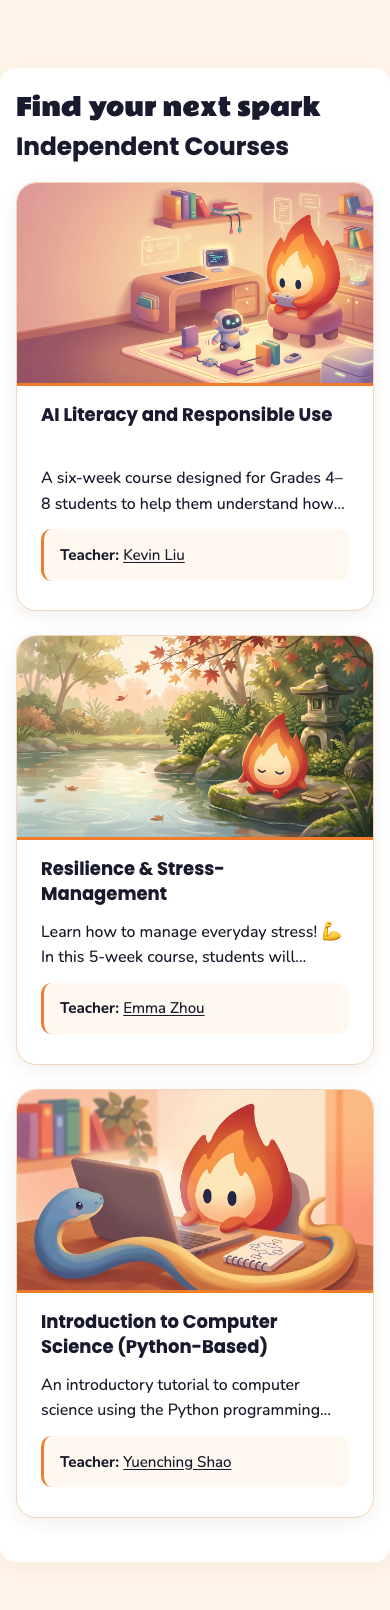
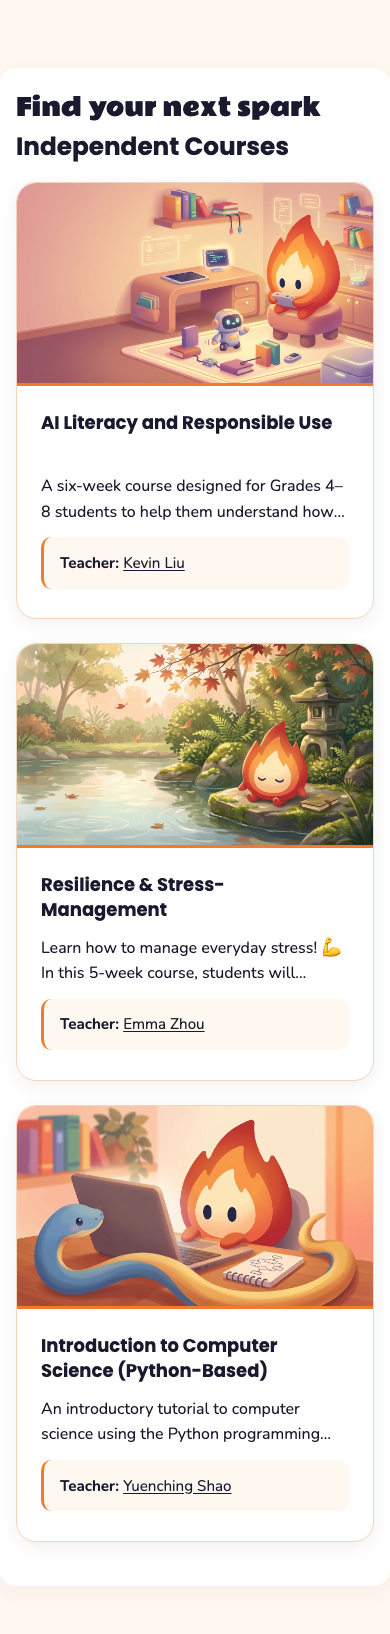
waefawefawe

diff --git a/server/sol/site-content.ts b/server/sol/site-content.ts
@@ -18,12 +18,12 @@ export const siteContent: { path: string; source: string; text: string }[] = [
   {
     "path": "/program",
     "source": "src/pages/Program.tsx",
-    "text": "The Program\nPractical life skills. Two ways to learn.\nLive and independent courses are being developed. Explore what’s planned below.\nTwo Planned Formats\nPractical skills for everyday life: managing your time, communicating clearly, staying safe online, understanding money, and turning ideas into projects.\nPlanned · Synchronous\nLive · One week\nFive 60-minute sessions, Monday through Friday, plus course-specific work outside class.\nLearn together through live lessons, guided practice, discussion, and applied tasks that build toward a final project.\nPlanned · Asynchronous\nIndependent · Six weeks\nThe draft framework estimates roughly 4–5 hours per week. Actual time will vary by course.\nWork through weekly lessons, practice, quizzes, and applied work. Use feedback to revise your work and build toward a final project.\nThese courses are in development. Launch dates, class schedules, and student enrollment details have not been confirmed.\nLearn by Doing\nLearn & Practice\nThe independent plans pair weekly lessons with practice and quizzes. Live plans include guided activities and discussion.\nFeedback & Revision\nThe draft formats include feedback so students can improve their applied work. Support details will vary by course.\nA Final Project\nBoth planned formats build toward a final project that shows how students can use what they learn.\nCourses in Development\n20 course plans: 3 live and 17 independent. Every course below is in development.\nAll courses (20) Live (3) Independent (17)\nShowing 20 courses in development.\nLive In development\nContent Creation & Digital Storytelling\nPlanned format: one week\nLive In development\nProfessional Communication & Public Speaking\nPlanned format: one week\nLive In development\nGame Development (Scratch)\nPlanned format: one week\nIndependent In development\nProductivity, Time Management & Organization\nPlanned format: six weeks\nIndependent In development\nMarketing, Branding & Digital Design\nPlanned format: six weeks\nIndependent In development\nScientific Research & Data Analysis\nPlanned format: six weeks\nIndependent In development\nSocial Impact & Project Development\nPlanned format: six weeks\nIndependent In development\nResilience & Stress Management\nPlanned format: six weeks\nIndependent In development\nAI Literacy and Responsible Use\nPlanned format: six weeks\nIndependent In development\n3D Design & CAD Fundamentals\nPlanned format: six weeks\nIndependent In development\nCybersecurity, Online Safety & Media Literacy\nPlanned format: six weeks\nIndependent In development\nCareer Exploration & Pathway Planning\nPlanned format: six weeks\nIndependent In development\nFinancial Literacy & Economics\nPlanned format: six weeks\nIndependent In development\nEntrepreneurship & Business Building\nPlanned format: six weeks\nIndependent In development\nLeadership, Teamwork & Conflict Resolution\nPlanned format: six weeks\nIndependent In development\nCivic Literacy & Community Action\nPlanned format: six weeks\nIndependent In development\nRelationships, Boundaries & Social Skills\nPlanned format: six weeks\nIndependent In development\nEmergency Preparedness & Safety\nPlanned format: six weeks\nIndependent In development\nIntroductory Physics and Astronomy\nPlanned format: six weeks\nIndependent In development\nIntro to Computer Science (Python)\nPlanned format: six weeks\nEligibility: To Be Confirmed\nExisting Ignite materials describe grades 4–8. Eligibility and any prior knowledge needed for each developing course still need confirmation; the same ages may not apply to every course.\nOur Summer 2026 Foundation\nSummer 2026 brought six subjects and ten live cohorts together over three weeks. Those past results are helping shape the next chapter.\nSee Summer 2026 Results\nGrowing With You\nAfter Summer 2026, Ignite is working toward free online learning that combines live classes with independent courses. The goal is to help more students build useful skills, wherever they learn.\n20 courses in development: 3 live and 17 independent.\nAI learning support, professional curriculum review, new partnerships, and broader reach are proposals. Their launch, approval, and growth targets have not been confirmed.\nExplore the Course Plans\nWhat’s Next?\nThese courses are in development. Launch dates, class schedules, and student enrollment details have not been confirmed.\nA current student application link has not been confirmed. The learning hub opens a Moodle sign-in page.\nLearning Hub (Moodle Sign-in) Program FAQ"
+    "text": "The Program\nPractical life skills. Two ways to learn.\nLive and independent courses are being developed. Explore what’s planned below.\nTwo Planned Formats\nPractical skills for everyday life: managing your time, communicating clearly, staying safe online, understanding money, and turning ideas into projects.\nPlanned · Synchronous\nLive · Two weeks\nFive 60-minute sessions per week, Monday through Friday, plus course-specific work outside class.\nLearn together through live lessons, guided practice, discussion, and applied tasks that build toward a final project.\nPlanned · Asynchronous\nIndependent · Six weeks\nThe draft framework estimates roughly 4–5 hours per week. Actual time will vary by course.\nWork through weekly lessons, practice, quizzes, and applied work. Use feedback to revise your work and build toward a final project.\nThese courses are in development. Launch dates, class schedules, and student enrollment details have not been confirmed.\nLearn by Doing\nLearn & Practice\nThe independent plans pair weekly lessons with practice and quizzes. Live plans include guided activities and discussion.\nFeedback & Revision\nThe draft formats include feedback so students can improve their applied work. Support details will vary by course.\nA Final Project\nBoth planned formats build toward a final project that shows how students can use what they learn.\nCourses in Development\n20 course plans: 3 live and 17 independent. Every course below is in development.\nAll courses (20) Live (3) Independent (17)\nShowing 20 courses in development.\nLive In development\nContent Creation & Digital Storytelling\nPlanned format: two weeks\nLive In development\nProfessional Communication & Public Speaking\nPlanned format: two weeks\nLive In development\nGame Development (Scratch)\nPlanned format: two weeks\nIndependent In development\nProductivity, Time Management & Organization\nPlanned format: six weeks\nIndependent In development\nMarketing, Branding & Digital Design\nPlanned format: six weeks\nIndependent In development\nScientific Research & Data Analysis\nPlanned format: six weeks\nIndependent In development\nSocial Impact & Project Development\nPlanned format: six weeks\nIndependent In development\nResilience & Stress Management\nPlanned format: six weeks\nIndependent In development\nAI Literacy and Responsible Use\nPlanned format: six weeks\nIndependent In development\n3D Design & CAD Fundamentals\nPlanned format: six weeks\nIndependent In development\nCybersecurity, Online Safety & Media Literacy\nPlanned format: six weeks\nIndependent In development\nCareer Exploration & Pathway Planning\nPlanned format: six weeks\nIndependent In development\nFinancial Literacy & Economics\nPlanned format: six weeks\nIndependent In development\nEntrepreneurship & Business Building\nPlanned format: six weeks\nIndependent In development\nLeadership, Teamwork & Conflict Resolution\nPlanned format: six weeks\nIndependent In development\nCivic Literacy & Community Action\nPlanned format: six weeks\nIndependent In development\nRelationships, Boundaries & Social Skills\nPlanned format: six weeks\nIndependent In development\nEmergency Preparedness & Safety\nPlanned format: six weeks\nIndependent In development\nIntroductory Physics and Astronomy\nPlanned format: six weeks\nIndependent In development\nIntro to Computer Science (Python)\nPlanned format: six weeks\nEligibility: To Be Confirmed\nExisting Ignite materials describe grades 4–8. Eligibility and any prior knowledge needed for each developing course still need confirmation; the same ages may not apply to every course.\nOur Summer 2026 Foundation\nSummer 2026 brought six subjects and ten live cohorts together over three weeks. Those past results are helping shape the next chapter.\nSee Summer 2026 Results\nGrowing With You\nAfter Summer 2026, Ignite is working toward free online learning that combines live classes with independent courses. The goal is to help more students build useful skills, wherever they learn.\n20 courses in development: 3 live and 17 independent.\nAI learning support, professional curriculum review, new partnerships, and broader reach are proposals. Their launch, approval, and growth targets have not been confirmed.\nExplore the Course Plans\nWhat’s Next?\nThese courses are in development. Launch dates, class schedules, and student enrollment details have not been confirmed.\nA current student application link has not been confirmed. The learning hub opens a Moodle sign-in page.\nLearning Hub (Moodle Sign-in) Program FAQ"
   },
   {
     "path": "/faq",
     "source": "src/pages/FAQ.tsx",
-    "text": "FAQ\nGot questions? We've got answers.\nIs it free?\nIgnite’s mission is to keep practical life skills learning free. The Summer 2026 program was free, and the developing courses are planned as free learning opportunities.\nHow long is the program?\nThe planned live (synchronous) format is one week; the independent (asynchronous) format is six weeks. These are course plans, not an announced schedule. The three-week Summer 2026 cycle is a past program.\nWhat’s the time commitment?\nLive: Five 60-minute sessions, Monday through Friday, plus course-specific work outside class. Independent: The draft framework estimates roughly 4–5 hours per week. Actual time will vary by course.\nWhich courses are available?\nThe catalog contains 20 courses in development: 3 live and 17 independent. These courses are in development. Launch dates, class schedules, and student enrollment details have not been confirmed.\nWho are the courses for?\nExisting Ignite materials describe grades 4–8. Eligibility and any prior knowledge needed for each developing course still need confirmation; the same ages may not apply to every course.\nIs experience required?\nIgnite welcomes curiosity and a willingness to learn. Any course-specific prerequisites will need to be confirmed before enrollment details are shared.\nWho are the mentors?\nIgnite is student-led. High school mentors helped students practice skills during Summer 2026. Teaching and feedback arrangements for developing courses are still being planned.\nWhere will learning happen?\nBoth formats are planned for online learning. Independent course plans include weekly lessons, practice, quizzes, applied work, feedback, revision, and a final project. The learning hub currently opens a Moodle sign-in page.\nCan I apply now?\nA current student application link and enrollment availability have not been confirmed. The learning hub is a Moodle sign-in page. Intern applications are separate and linked on the Hiring page.\nWhat will I work toward?\nBoth draft formats build toward a final project. Course-specific completion requirements and any certificates will need to be confirmed before launch.\nHow is Ignite expanding?\nAfter Summer 2026, Ignite is working toward free online learning that combines live classes with independent courses. The goal is to help more students build useful skills, wherever they learn. AI learning support, professional curriculum review, new partnerships, and broader reach are proposals. Their launch, approval, and growth targets have not been confirmed.\nHow do I contact you?\nEmail ignitefindyourfire@gmail.com with questions about the program or eligibility.\nStill Have Questions?\nSend us an email and we will get back to you as soon as we can.\nEmail Us"
+    "text": "FAQ\nGot questions? We've got answers.\nIs it free?\nIgnite’s mission is to keep practical life skills learning free. The Summer 2026 program was free, and the developing courses are planned as free learning opportunities.\nHow long is the program?\nThe planned live (synchronous) format is two weeks; the independent (asynchronous) format is six weeks. These are course plans, not an announced schedule. The three-week Summer 2026 cycle is a past program.\nWhat’s the time commitment?\nLive: Five 60-minute sessions per week, Monday through Friday, plus course-specific work outside class. Independent: The draft framework estimates roughly 4–5 hours per week. Actual time will vary by course.\nWhich courses are available?\nThe catalog contains 20 courses in development: 3 live and 17 independent. These courses are in development. Launch dates, class schedules, and student enrollment details have not been confirmed.\nWho are the courses for?\nExisting Ignite materials describe grades 4–8. Eligibility and any prior knowledge needed for each developing course still need confirmation; the same ages may not apply to every course.\nIs experience required?\nIgnite welcomes curiosity and a willingness to learn. Any course-specific prerequisites will need to be confirmed before enrollment details are shared.\nWho are the mentors?\nIgnite is student-led. High school mentors helped students practice skills during Summer 2026. Teaching and feedback arrangements for developing courses are still being planned.\nWhere will learning happen?\nBoth formats are planned for online learning. Independent course plans include weekly lessons, practice, quizzes, applied work, feedback, revision, and a final project. The learning hub currently opens a Moodle sign-in page.\nCan I apply now?\nA current student application link and enrollment availability have not been confirmed. The learning hub is a Moodle sign-in page. Intern applications are separate and linked on the Hiring page.\nWhat will I work toward?\nBoth draft formats build toward a final project. Course-specific completion requirements and any certificates will need to be confirmed before launch.\nHow is Ignite expanding?\nAfter Summer 2026, Ignite is working toward free online learning that combines live classes with independent courses. The goal is to help more students build useful skills, wherever they learn. AI learning support, professional curriculum review, new partnerships, and broader reach are proposals. Their launch, approval, and growth targets have not been confirmed.\nHow do I contact you?\nEmail ignitefindyourfire@gmail.com with questions about the program or eligibility.\nStill Have Questions?\nSend us an email and we will get back to you as soon as we can.\nEmail Us"
   },
   {
     "path": "/hiring",

diff --git a/moodle/raw.scss b/moodle/raw.scss
@@ -36,7 +36,8 @@ $ignite-catalog-link: #A63B00; // Existing preset's accessible orange link shade
 $ignite-catalog-border: #F2D5BB;
 $ignite-catalog-body: "Nunito", -apple-system, BlinkMacSystemFont, "Segoe UI", Arial, sans-serif;
 $ignite-catalog-heading: "Poppins", "Segoe UI", Arial, sans-serif;
-$ignite-catalog-title-height: 4.75rem;
+$ignite-catalog-image-title-gap: 1.5rem; // 24px at the default root font size.
+$ignite-catalog-title-height: 3.75rem + $ignite-catalog-image-title-gap;
 $ignite-catalog-details-height: 9.25rem;
 $ignite-catalog-extra-details-height: 11.5rem;
 $ignite-catalog-description-lines: 2;
@@ -45,10 +46,10 @@ $ignite-catalog-description-lines: 2;
 #page-course-index,
 #page-course-index-category,
 #page-course-search {
-    background-color: #fff5e8;
+    background-color: $ignite-catalog-cream;
 
     #page.drawers {
-        background-color: transparent;
+        background-color: $ignite-catalog-cream;
     }
 
     #page.drawers .main-inner {
@@ -217,7 +218,7 @@ $ignite-catalog-description-lines: 2;
                     align-items: flex-start;
                     gap: .5rem;
                     min-width: 0;
-                    margin: 1rem 1.25rem .5rem;
+                    margin: $ignite-catalog-image-title-gap 1.25rem .5rem;
                     padding-inline: .25rem;
 
                     > .coursename {
@@ -465,33 +466,8 @@ $ignite-catalog-description-lines: 2;
     }
 }
 
-// Use the image uploaded in Boost > General settings > Background image.
-// Boost supplies background-image; these properties prevent tiling and seams.
-// "cover" preserves the artwork's proportions and may crop its edges.
-// Boost 5.2 supplies the General background image only at widths >= 768px;
-// smaller screens use the fallback colour unless an image rule is configured.
-body {
-    background-color: #fff5e8;
-    background-size: cover;
-    background-repeat: no-repeat;
-    background-position: center center;
-    background-attachment: fixed;
-}
-
-// Reveal the same background around the preset's white learner content panels.
-#page-site-index,
-#page-my-index,
-#page-my-indexsys,
-#page-my-courses {
-    background-color: #fff5e8;
-
-    #page.drawers {
-        background-color: transparent;
-    }
-}
-
-@media (prefers-reduced-motion: reduce) {
-    body {
-        background-attachment: scroll;
-    }
+// Boost 5.2 login welcome: default title and headings entered in Instructions.
+// Keep the form heading, body copy, typography and panel layout unchanged.
+#page-login-index .login-layout-left .login-layout-left-content :is(h1, h2, h3, h4, h5, h6) {
+    color: #FFFFFF;
 }

diff --git a/src/data/program.ts b/src/data/program.ts
@@ -9,8 +9,8 @@ export const courseFormats = {
   live: {
     label: 'Live',
     technicalLabel: 'Synchronous',
-    duration: 'One week',
-    commitment: 'Five 60-minute sessions, Monday through Friday, plus course-specific work outside class.',
+    duration: 'Two weeks',
+    commitment: 'Five 60-minute sessions per week, Monday through Friday, plus course-specific work outside class.',
     description: 'Learn together through live lessons, guided practice, discussion, and applied tasks that build toward a final project.',
     icon: '/mascots/Zoom.png',
   },

diff --git a/docs/SOL.md b/docs/SOL.md
@@ -39,7 +39,7 @@ Reviewed public source at Ignite revision `4695804e4785f9e16074b0ddcaa04268d9712
 | Entry | Public source and approved destination |
 | --- | --- |
 | About | `src/pages/About.tsx`, `src/data/program.ts` → `/about`: student-led practical life skills, free-learning mission, courses in development. |
-| Formats and catalog | `src/pages/Program.tsx`, `src/data/program.ts` → `/program`: 20 developing plans, 3 live and 17 independent; planned one-week live and six-week independent formats. All are plans, with no confirmed launch/enrollment schedule. |
+| Formats and catalog | `src/pages/Program.tsx`, `src/data/program.ts` → `/program`: 20 developing plans, 3 live and 17 independent; planned two-week live and six-week independent formats. All are plans, with no confirmed launch/enrollment schedule. |
 | Eligibility and enrollment | `src/pages/FAQ.tsx`, `src/data/program.ts`, `src/pages/Apply.tsx` → `/faq`, `/program`, verified contact: historical grades 4–8 do not establish each new course's eligibility; prerequisites, certificates and enrollment remain unconfirmed. The old student Google Form has been removed from Sol's allowlist. `/apply` is a legacy information page, not a confirmed student application. |
 | Founders, team and hiring | `src/data/mentors.ts`, `src/pages/Mentors.tsx`, `src/pages/Hiring.tsx`, `src/lib/links.ts` → `/team`, `/hiring`, `https://forms.gle/wV8e5edRNVNpUJvt7`: cofounders, names, roles, schools, education and profile course associations reuse the website's roster, preserving current/former staff. Sol answers with these facts directly and offers navigation alongside the answer. No invented compensation, deadline or eligibility. Verify any deployed `VITE_INTERN_FORM_URL` override and update Sol's approved destination if it changes. |
 | Results | `src/pages/Statistics.tsx` → `/statistics`: historical Summer 2026 figures: 110 applications, 295 selections, 77 schools, five countries/regions, ten cohorts, three weeks, ten mentors. |
